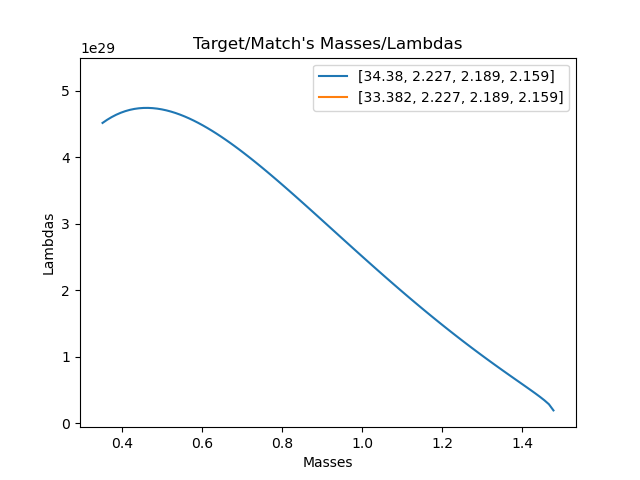
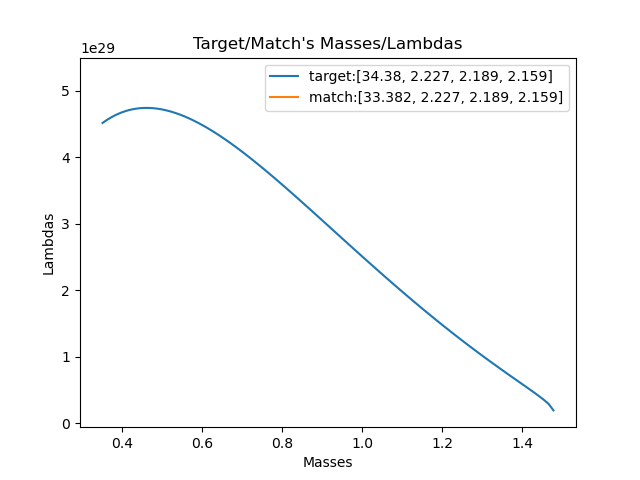
Improving Plots

Changed region(s): [[0.4062, 0.125, 0.9062, 0.2188]]

diff --git a/closest_match.py b/closest_match.py
@@ -132,8 +132,9 @@ def closest_match_ML(eos, N):
            
     match = parameter_combos[np.argmin(CSs)] # parameter combo associated with minimum chi-square result
 
-    pl.plot(target_masses, target_lambdas, label=str(target)) 
-    pl.plot(trial_m_list[np.argmin(CSs)], trial_l_list[np.argmin(CSs)], label=str(match))
+    pl.plot(target_masses, target_lambdas, label="target:"+str(target)) 
+    pl.plot(trial_m_list[np.argmin(CSs)], trial_l_list[np.argmin(CSs)], label="match:"+str(match))
+
     pl.legend()
     pl.xlabel("Masses")
     pl.ylabel("Lambdas")
